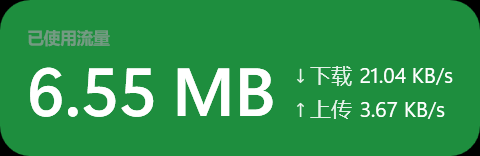
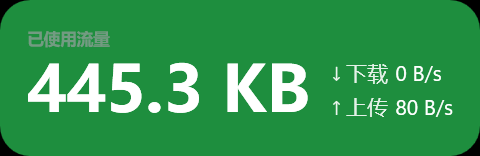
fix(capsule): unify caption and value typography

Changed region(s): [[0.0312, 0.3846, 0.9688, 0.7692], [0.0625, 0.1795, 0.25, 0.3077]]

diff --git a/HotspotMeter.App/Views/CapsuleWindow.xaml b/HotspotMeter.App/Views/CapsuleWindow.xaml
@@ -22,8 +22,17 @@
         d:DataContext="{d:DesignInstance Type=vm:CapsuleViewModel}">
 
     <Window.Resources>
-        <!-- 标签与数字共用同一字体家族，避免"说明像另一种字体"的割裂感。 -->
-        <FontFamily x:Key="TrafficFontFamily">Segoe UI Variable Display, Segoe UI, Microsoft YaHei UI</FontFamily>
+        <!--
+            4C-13：标签是纯中文、数字是拉丁字符，之前用
+            "Segoe UI Variable Display, Segoe UI, Microsoft YaHei UI"。
+            Segoe UI Variable 不含 CJK 字形，WPF 会逐字符回退到微软雅黑：
+            中文实际是 YaHei、数字是 Segoe Variable，且 YaHei 只有 Normal/Bold，
+            没有 SemiBold——标签的 SemiBold 被映射成 Bold，数字仍是真的 SemiBold，
+            于是出现"标签更粗、字形不是一套"的观感。
+            现在统一用同时覆盖中英文的 Microsoft YaHei UI（拉丁字形本身源自 Segoe 家族），
+            两个 TextBlock 也不再依赖逐字符回退。
+        -->
+        <FontFamily x:Key="TrafficFontFamily">Microsoft YaHei UI, Microsoft YaHei</FontFamily>
     </Window.Resources>
 
     <Window.ContextMenu>
@@ -63,7 +72,7 @@
             <TextBlock x:Name="TrafficCaption"
                        Text="已使用流量"
                        FontFamily="{StaticResource TrafficFontFamily}"
-                       FontSize="{Binding CaptionFontSize}" FontWeight="SemiBold"
+                       FontSize="{Binding CaptionFontSize}" FontWeight="Bold"
                        Foreground="{StaticResource TextSecondary}"
                        Opacity="0.65"
                        HorizontalAlignment="Left"
@@ -86,7 +95,7 @@
                     <TextBlock x:Name="TrafficValue"
                                Text="{Binding SessionText}"
                                FontFamily="{StaticResource TrafficFontFamily}"
-                               FontSize="{Binding TrafficFontSize}" FontWeight="SemiBold" Foreground="White"
+                               FontSize="{Binding TrafficFontSize}" FontWeight="Bold" Foreground="White"
                                LineHeight="{Binding TrafficLineHeight}" LineStackingStrategy="BlockLineHeight" />
                 </Viewbox>
 

diff --git a/HotspotMeter.App/Services/UiDump.cs b/HotspotMeter.App/Services/UiDump.cs
@@ -259,6 +259,12 @@ internal static class UiDump
         var captionAbove = false;
         var captionLeftAligned = false;
         var captionFontMatch = false;
+        var captionWeightMatch = false;
+        var captionStyleMatch = false;
+        var fontCoversCjk = false;
+        var fontCoversDigits = false;
+        var captionFontWeight = FontWeights.Normal;
+        var trafficFontWeight = FontWeights.Normal;
         var captionVisible = false;
         var captionOpacity = 0.0;
         var trafficOpacity = 0.0;
@@ -275,6 +281,21 @@ internal static class UiDump
             captionLeftAligned = Math.Abs(captionRect.Left - trafficRect.Left) <= 0.5;
             captionFontMatch = string.Equals(
                 caption.FontFamily.Source, trafficValue.FontFamily.Source, StringComparison.OrdinalIgnoreCase);
+            captionWeightMatch = caption.FontWeight == trafficValue.FontWeight;
+            captionFontWeight = caption.FontWeight;
+            trafficFontWeight = trafficValue.FontWeight;
+            captionStyleMatch = caption.FontStyle == trafficValue.FontStyle;
+            // 直接检查字体文件是否同时含中文与拉丁字形：只比较 FontFamily 字符串无法发现
+            // "Segoe UI Variable + 逐字符回退到雅黑"这种表面同族、实际混排的情况。
+            var typeface = new Typeface(
+                caption.FontFamily, caption.FontStyle, caption.FontWeight, caption.FontStretch);
+            if (typeface.TryGetGlyphTypeface(out var glyphTypeface))
+            {
+                fontCoversCjk = glyphTypeface.CharacterToGlyphMap.ContainsKey('已')
+                                && glyphTypeface.CharacterToGlyphMap.ContainsKey('流');
+                fontCoversDigits = glyphTypeface.CharacterToGlyphMap.ContainsKey('0')
+                                   && glyphTypeface.CharacterToGlyphMap.ContainsKey('B');
+            }
             captionOpacity = caption.Opacity;
             trafficOpacity = trafficValue.Opacity;
             // 透明度必须只加在标签自身：数字不透明，且共用的父容器也不透明。
@@ -285,11 +306,15 @@ internal static class UiDump
 
         // 自动适配的 Compact/Minimal 密度有意隐藏标签；此时只校验"没有状态文字/图标"。
         var captionOk = !captionVisible ||
-                        (captionPresent && captionAbove && captionLeftAligned && captionFontMatch);
+                        (captionPresent && captionAbove && captionLeftAligned && captionFontMatch
+                         && captionWeightMatch && captionStyleMatch && fontCoversCjk && fontCoversDigits);
         var ok = !statusPresent && captionOk && !hasWifiPath && (!captionVisible || opacityIsolated);
         return $"simplified ok={ok} statusText={statusPresent} caption={captionPresent} " +
                $"captionVisible={captionVisible} captionAbove={captionAbove} " +
                $"captionLeftAligned={captionLeftAligned} captionFontMatch={captionFontMatch} " +
+               $"captionWeightMatch={captionWeightMatch} captionStyleMatch={captionStyleMatch} " +
+               $"fontCoversCjk={fontCoversCjk} fontCoversDigits={fontCoversDigits} " +
+               $"captionWeight={captionFontWeight} trafficWeight={trafficFontWeight} " +
                $"captionOpacity={captionOpacity:0.00} trafficOpacity={trafficOpacity:0.00} " +
                $"opacityIsolated={opacityIsolated} " +
                $"wifiIcon={hasWifiPath} trafficFont={trafficFont:0.#} speedFont={speedFont:0.#}";

diff --git a/docs/02_UI_Specification.md b/docs/02_UI_Specification.md
@@ -89,12 +89,17 @@
 
 禁止使用纯饱和 `#00FF00` / `#FF0000`（刺眼、对比度差）。
 
-### 1.6 字体【暂定】
+### 1.6 字体（阶段 4C-13 现状）
 
-- 中文/常规：`Microsoft YaHei UI`，回退 `Segoe UI`。
-- 数字：`Segoe UI` 或 `Segoe UI Variable`，启用 `Typography.NumeralAlignment="Tabular"`，避免数字跳动。
-- 字号：状态文字 12；大数字 30；说明文字 10；速度 10。
+- 胶囊内标签与流量数字统一使用 `Microsoft YaHei UI`（回退 `Microsoft YaHei`），字重同为 `Bold`、样式 `Normal`。
+  原因见 §7.10：`Segoe UI Variable` 不含 CJK 字形，此前中文逐字符回退到雅黑、数字留在 Segoe，
+  且雅黑只有 Light/Normal/Bold，标签的 SemiBold 被映射成 Bold，造成"标签更粗、字形两套"。
+- 数字不再使用 `Segoe UI Variable`：虽然其 Latin 更接近原设计，但无法与中文标签同族。
+  字号仍为 46×缩放系数，主体地位不变；未启用 `Typography.NumeralAlignment="Tabular"`（数字宽度变化可接受，
+  若后续出现明显跳动再评估）。
+- 字号：状态文字 12（当前胶囊已不显示状态文字）；会话数字 46；说明标签 11；速度 14（均随尺寸缩放）。
 - 数字变化时不做滚动动画（会干扰读数），仅数值更新。
+- 系统字体缺失时的回退链只保留同设计的雅黑家族，不再把 Segoe 放在前面，避免重新引入逐字符混排。
 
 ### 1.7 交互【已确认】
 
@@ -233,9 +238,9 @@
   都 `HorizontalAlignment=Left`，左边缘由同一布局基准决定（不使用 Margin/绝对定位模拟对齐）；标签在数字正上方。
   右侧 ↓ 下载 / ↑ 上传两行竖排实时速度（下载在上、上传在下）。
   流量数字放在 `Viewbox`（只缩小、不裁切），长文本如"999.9 GB"仍完整显示。
-- 说明标签（4C-11/4C-12）：字号 11×缩放系数、`TextSecondary #A1A1A6`、`Opacity=0.65`（只加在 `TrafficCaption`
-  自身，不作用于父容器）、`FontWeight=SemiBold`、与数字间距 2×缩放系数 DIP；
-  与数字共用 `TrafficFontFamily`（`Segoe UI Variable Display, Segoe UI, Microsoft YaHei UI`）。
+- 说明标签（4C-11/4C-12/4C-13）：字号 11×缩放系数、`TextSecondary #A1A1A6`、`Opacity=0.65`（只加在 `TrafficCaption`
+  自身，不作用于父容器）、`FontWeight=Bold`、与数字间距 2×缩放系数 DIP；
+  与数字共用 `TrafficFontFamily`（`Microsoft YaHei UI, Microsoft YaHei`，中英文均来自同一字体文件，无逐字符回退）。
   自动适配的 Compact/Minimal 密度因高度不足隐藏该标签，Normal 密度与普通四档/自定义尺寸始终显示。
 - 对齐（阶段 4C-6）：流量数字与速度块放在**同一个 Grid 行的同一行高**里，二者都是
   `VerticalAlignment="Center"`，因此速度块整体中心严格等于流量数字控件的中心；不依赖任何手工 Margin。
@@ -314,19 +319,21 @@
   不用 `Topmost=false→true` 抢焦点；自动适配模式的位置夹取以显示器边界为界（可拖入任务栏），
   普通模式以工作区 + 8 DIP 为界（4C-9 修订）。
 
-### 7.8 说明标签与数字的实测几何（阶段 4C-11）
+### 7.8 说明标签与数字的实测几何（阶段 4C-13）
 
-标准档 320×104、150% DPI，UiDump 实测（窗口内 DIP 坐标）：
+标准档 320×104、150% DPI，UiDump 实测（窗口内 DIP 坐标，文本为 `18.26 KB`）：
 
 | 元素 | 位置/尺寸 |
 | --- | --- |
-| "已使用流量" | x=18, y=16.7, 54.7×14.7，字号 11，SemiBold |
-| 流量数字 | x=18, y=33.3, 146.7×54，字号 46，SemiBold |
-| ↓/↑ 速度块 | y=39.7..80.9，中心 60.3 |
+| "已使用流量" | x=18, y=19.3, 54.7×14，字号 11，Bold |
+| 流量数字 | x=18, y=35.3, 183.3×48.7，字号 46，Bold |
+| ↓/↑ 速度块 | y=39..80.3，中心 59.67 |
 
 - 标签与数字左边缘均为 x=18，严格对齐（UiDump `captionLeftAligned delta=0`）。
-- 标签底边 31.4，数字顶边 33.3，间距 1.9 DIP；两者字体家族同为 `Segoe UI Variable Display`。
-- 速度块中心 60.3 = 数字控件中心 60.3，4C-6 的对齐基准未被破坏。
+- 标签底边 33.3，数字顶边 35.3，间距 2.0 DIP；两者字体家族同为 `Microsoft YaHei UI`，字重同为 Bold。
+- 速度块中心 59.67 ≈ 数字控件中心 59.67（delta 0），4C-6 的对齐基准未被破坏。
+- 与 4C-11（Segoe）相比，数字同字号下字形更宽（183.3 vs 146.7）、行高更矮（48.7 vs 54）；
+  `Viewbox` 保证长文本只缩不裁，四档/自定义均通过 `layout=ok`。
 
 ### 7.9 说明标签不透明度（阶段 4C-12）
 
@@ -337,5 +344,22 @@
   - 绿底 `#1E8E3E` → `#739A82`，**1.34:1**（实心灰本身也只有 1.63:1；这是"柔和次级文字"的刻意取舍）
   - 红底 `#C5221F` → `#AE7577`，**1.55:1**（实心灰 2.25:1）
 - 约束：不再往下调（0.5 时约 1.2:1，11 px 下会难以辨认）；若实际观感太弱，优先升到 0.75–0.8，
-  而不是改数字或父容器。字体、字号、字重、位置、左对齐均未变。
+  而不是改数字或父容器。4C-12 本身未改字体、字号、字重、位置；字体家族与字重在 4C-13 统一调整。
+
+### 7.10 字体统一与中英混排回退（阶段 4C-13）
+
+- 现象：标签是中文、数字是拉丁字符，虽共用同一个 `FontFamily` 字符串，实际观感是两套字形，标签还更粗。
+- 根因（已由字体表实测确认，不是猜测）：
+  1. 资源原值 `Segoe UI Variable Display, Segoe UI, Microsoft YaHei UI` 中，`Segoe UI Variable Display` 的
+     `CharacterToGlyphMap` 不含 CJK 字形。WPF 对中文逐字符回退到后备列表里的雅黑，数字/字母仍用 Segoe，
+     于是同一个 TextBlock 内出现两种字体。
+  2. `Microsoft YaHei UI` 只有 Light(290)/Normal(400)/Bold(700)，没有 SemiBold。标签的 `SemiBold(600)`
+     被就近匹配到 Bold，而数字的 Segoe Variable 有真正的 SemiBold(600)，造成"标签比数字粗"。
+- 修复：`TrafficFontFamily` 改为 `Microsoft YaHei UI, Microsoft YaHei`（同一字体文件同时含中文与拉丁字形），
+  标签与数字都显式 `FontWeight="Bold"`，`FontStyle` 均为 Normal；字号、间距、左对齐、透明度、速度区不变。
+- 验证：UiDump 新增 `captionWeightMatch`、`captionStyleMatch`、`fontCoversCjk`、`fontCoversDigits`
+  （直接查 `Typeface.TryGetGlyphTypeface` 的字符映射，确认 `已/流/0/B` 都在同一字体文件里），四档/自定义/长文本
+  全部 `ok=True`；像素截图标签主色仍为 65% 合成色。
+- 代价：数字改用雅黑后，同字号下拉丁字形更宽（标准档 `18.26 KB` 宽 183.3 vs 146.7）、行高更矮（48.7 vs 54），
+  视觉比原 Segoe 略宽扁；这是"中英文必须同族"的取舍。若未来允许内嵌字体，可换成同时具备中文与 SemiBold 的开源字体。
 

diff --git a/PROJECT_CONTEXT.md b/PROJECT_CONTEXT.md
@@ -11,10 +11,10 @@ Windows 原生 WPF 工具，监控电脑连接手机 Wi-Fi 热点时的网卡流
 
 | 项目 | 状态 |
 | --- | --- |
-| 当前阶段 | **阶段 4C-12 已实现（胶囊"已使用流量"标签自身 Opacity=0.65，数字/速度/父容器不受影响；构建 0/0，385/385 测试通过），等待用户验收** |
+| 当前阶段 | **阶段 4C-13 已实现（胶囊标签与数字统一 `Microsoft YaHei UI` + Bold，消除中文回退与字重错配；构建 0/0，385/385 测试通过），等待用户验收** |
 | 代码状态 | Core：模型/接口/累积器/恢复判定；Infrastructure：WLAN 检测、计数器、`MonitorEngine`、系统时钟、SQLite 基础设施（3A）、业务表 v2/v3 与基础仓储/OperationId/时间切分/日汇总/摘要编码（3B-1～3B-5a）；App：胶囊窗口 + `CapsuleViewModel` + `MonitorSessionService` + 窗口位置/尺寸存储 + 托盘 + 设置窗口；`tools/ApiProbe`（阶段 1 原型）与 `tools/MonitorHost`（阶段 2 宿主），均不入解决方案 |
 | 未实现 | 统计窗口、右键菜单“流量统计”功能、快照/会话持久化管线（StepBuffer、`StepProduced`、`SessionPersistenceService`、Settlement 入口、Writer 状态机）、启动恢复与一致性修复、开机启动、用户选择目标热点 |
-| 下一次要做的事 | 用户验收 4C-12 的标签透明度（重点：在绿/红底色上是否"明显弱于数字但仍可辨认"；若过淡，把 0.65 调到 0.75–0.8）；验收后进入统计窗口开发 |
+| 下一次要做的事 | 用户验收 4C-13 的字体统一（重点：标签与数字是否像同一套字形、标签是否仍比数字粗；数字改用雅黑后略宽扁是否可接受）；验收后进入统计窗口开发 |
 
 ### 阶段 0 实际验证结果（2026-11-12）
 
@@ -189,6 +189,15 @@ Windows 原生 WPF 工具，监控电脑连接手机 Wi-Fi 热点时的网卡流
 - 对比度实测：绿底合成 `#739A82` 为 1.34:1，红底合成 `#AE7577` 为 1.55:1；实心灰原本为 1.63:1 / 2.25:1。这是"装饰性次级文字"的刻意弱化，不宣称满足 WCAG AA。
 - 未验证：65% 在 11 px 下的实际可辨性需人工目检；视觉引擎仍不可用。
 
+### 阶段 4C-13 实际结果（2026-11-13，标签与数字统一字体）
+
+- 根因经本机字体表实测：`Microsoft YaHei UI` 无 SemiBold（Light/Normal/Bold），`Segoe UI Variable Display` 有 SemiBold 但不含 CJK。原资源以 Segoe 开头，中文逐字符回退雅黑、数字留在 Segoe；标签 SemiBold 在雅黑被映射为 Bold，数字是真 SemiBold，造成“标签更粗、两套字形”。
+- 修复：`TrafficFontFamily` 改为 `Microsoft YaHei UI, Microsoft YaHei`；`TrafficCaption` 与 `TrafficValue` 均显式 `FontWeight=Bold`；字号、间距、`Opacity=0.65`、左对齐与速度区未动。
[1 lines of base64/hex data omitted]
+- 验证：`dotnet build` 0/0、`dotnet test` **385/385**；`artifacts/ui-selftest30/selftest.txt`：四档+自定义+长文本 `layout=ok texts=8`，`captionFontMatch/WeightMatch/StyleMatch=True`、`fontCoversCjk/Digits=True`，速度 delta ≤0.33，自动适配/定位/固定/设置/重启全部通过。
+- 实机标准档：标签 `x=18,y=19.3,54.7×14`，数字 `x=18,y=35.3,183.3×48.7`（`18.26 KB`），间距 2.0 DIP；数字同字号下比 Segoe 更宽、行高更矮。
+- 未验证：雅黑 Bold 在 11 px + 65% 下的观感需人工目检；视觉引擎仍不可用。
+
 ## 3. 文档索引与阅读顺序
 
 | 文件 | 内容 | 什么时候读 |
@@ -285,3 +294,4 @@ dotnet run --project tools/MonitorHost -- --ssid "OPPO Find X9" --seconds 20 --j
 | 2026-11-13 | 阶段 4C-10：胶囊说明标签"已使用流量"移到数字上方（两行 Grid，速度块与数字同行保持中心对齐）；普通四档/自定义可见，自动适配 Compact/Minimal 隐藏；更新 docs/02、D-079、日志 |
 | 2026-11-13 | 阶段 4C-11：标签与数字合并到同一 StackPanel、共用 TrafficFontFamily、标签 SemiBold 且左边缘严格对齐；UiDump 增加左对齐/字体一致断言；新增 D-080（覆盖 D-079 对齐部分） |
 | 2026-11-13 | 阶段 4C-12：说明标签自身 `Opacity=0.65`（父容器与数字保持 1.0），UiDump 增加透明度隔离断言；对比度实测记录；新增 D-081；提交全部未提交改动 |
+| 2026-11-13 | 阶段 4C-13：标签与数字统一 `Microsoft YaHei UI` + Bold，消除 CJK 逐字符回退与 SemiBold→Bold 错配；UiDump 增加字重/样式/字形覆盖断言；新增 D-082；提交 |

diff --git a/docs/10_Development_Log.md b/docs/10_Development_Log.md
@@ -981,3 +981,26 @@ CREATE TABLE SchemaInfo (Key TEXT PRIMARY KEY NOT NULL, Value TEXT NOT NULL);
   已在 `docs/02` §7.9 与 D-081 记录取舍，未宣称满足 WCAG AA。
 - 文档：`docs/02` §1.3/§1.5/§7.1/§7.8/§7.9；`docs/09` D-081；本日志；`PROJECT_CONTEXT`。
 - 未验证：视觉引擎仍不可用，实际柔和程度需人工目检；65% 在 11 px 下的可辨性未做用户测试。
+
+## 阶段 4C-13：标签与数字统一字体家族、字重
+
+- 需求：标签与数字看起来属于同一套字体；标签不得比数字更粗；数字保持字号与主体地位；保留 65% 透明度、
+  上方位置、左对齐与速度区。
+- 根因核查：用 `[Windows.Media.Fonts]::SystemFontFamilies` + `FamilyTypefaces` 枚举本机字体，确认
+  `Microsoft YaHei UI` 只有 Light/Normal/Bold（无 SemiBold），`Segoe UI Variable Display` 有 SemiBold
+  但不含 CJK。原资源把 Segoe 放首位，中文逐字符回退雅黑、数字留在 Segoe；标签 SemiBold 被雅黑映射为 Bold，
+  数字为真 SemiBold，导致"标签更粗、字形两套"。
+- 修复：`TrafficFontFamily` 改为 `Microsoft YaHei UI, Microsoft YaHei`；`TrafficCaption` 与 `TrafficValue`
+  的 `FontWeight` 都改为 `Bold`；其余（字号、Margin、Opacity、布局、速度块）未动。
+- `UiDump.CheckSimplifiedContent` 新增 `captionWeightMatch`、`captionStyleMatch`、`fontCoversCjk`、
+  `fontCoversDigits`；后者用 `Typeface.TryGetGlyphTypeface(...).CharacterToGlyphMap` 直接检查 `已/流/0/B`
+  是否在同一字体文件，避免只看 `FontFamily.Source` 的假一致。
+- 自检 `artifacts/ui-selftest30/selftest.txt`：四档 + 自定义 + 长文本全部 `layout=ok texts=8`、
+  `captionFontMatch=True captionWeightMatch=True captionStyleMatch=True fontCoversCjk=True fontCoversDigits=True`；
+  速度 delta ≤0.33；自动适配/定位/固定/设置/重启全部通过。
+- 实机标准档：标签 `x=18,y=19.3,54.7×14`；数字 `x=18,y=35.3,183.3×48.7`（`18.26 KB`）；间距 2.0 DIP；
+  左边缘差 0；速度块中心 59.67 = 数字中心。
+- 代价与观察：数字改用雅黑后拉丁字形变宽（183.3 vs 146.7）、行高变矮（48.7 vs 54）；`layout=ok` 且
+  `Viewbox` 只缩不裁。像素截图标签主色仍为 `#739B82`（65% 合成），说明透明度未被破坏。
+- 文档：`docs/02` §1.6/§7.1/§7.8/新增 §7.10；`docs/09` D-082；本日志；`PROJECT_CONTEXT`。
+- 未验证：雅黑 Bold 在 11 px + 65% 下的实际观感仍需人工目检；视觉引擎仍不可用。

diff --git a/docs/09_Decisions.md b/docs/09_Decisions.md
@@ -791,3 +791,20 @@
   不允许通过调低父容器或数字透明度来"统一"，也不改字号/字重/位置。
 - 备选与否决：把 `Foreground` 改为 `#A1A1A6` 加 alpha——效果等价但透明度藏在画刷里，UiDump 难以断言，
   且容易被后续样式覆盖；给标签加背景底板——改变视觉设计，且用户未要求。
+
+## D-082 胶囊文字统一用 Microsoft YaHei UI + Bold，消除中英混排回退
+
+- 状态：已决定（阶段 4C-13，覆盖 D-080 的字体家族与字重部分）
+- 事实依据（`Fonts.SystemFontFamilies` + `FamilyTypefaces` 实测）：
+  - `Microsoft YaHei UI` 仅有 Light(290)/Normal(400)/Bold(700)，**没有 SemiBold**；
+  - `Segoe UI Variable Display/Text/Small` 有 Light/350/Normal/SemiBold/Bold，但**不含 CJK 字形**。
+- 根因：原资源 `Segoe UI Variable Display, Segoe UI, Microsoft YaHei UI` 先命中 Segoe，中文再逐字符回退雅黑，
+  数字留在 Segoe；同时标签 SemiBold 在雅黑里被就近匹配为 Bold，数字却是真 SemiBold，故"标签更粗、两套字形"。
+- 决策：`TrafficFontFamily = Microsoft YaHei UI, Microsoft YaHei`；标签与数字都显式 `FontWeight=Bold`，
+  `FontStyle=Normal`。数字字号仍 46×s，视觉主体地位不变；标签仍 11×s、`Opacity=0.65`、在数字上方且左对齐。
+- 理由：唯一能同时覆盖中文与拉丁、且在本机稳定存在的 UI 字体是雅黑；拉丁字形本身源自 Segoe 家族，
+  统一后不会出现"中文一个字体、数字另一个字体"。显式 Bold 避免 SemiBold→Bold 的隐式映射继续误导。
+- 代价：数字同字号下更宽、行高更矮（标准档 `18.26 KB` 183.3×48.7 vs 原 146.7×54），`Viewbox` 仍保证不裁切；
+  若未来允许内嵌字体（如思源黑体 SemiBold），可重新评估。
+- 备选与否决：只把标签改成雅黑 Bold、数字保留 Segoe——不满足"同字体家族"，且宽度差异仍在；
+  用 `Typography` 或透明度掩盖——用户明确禁止掩盖；内嵌第三方字体——增加体积与授权问题，超出本次范围。
